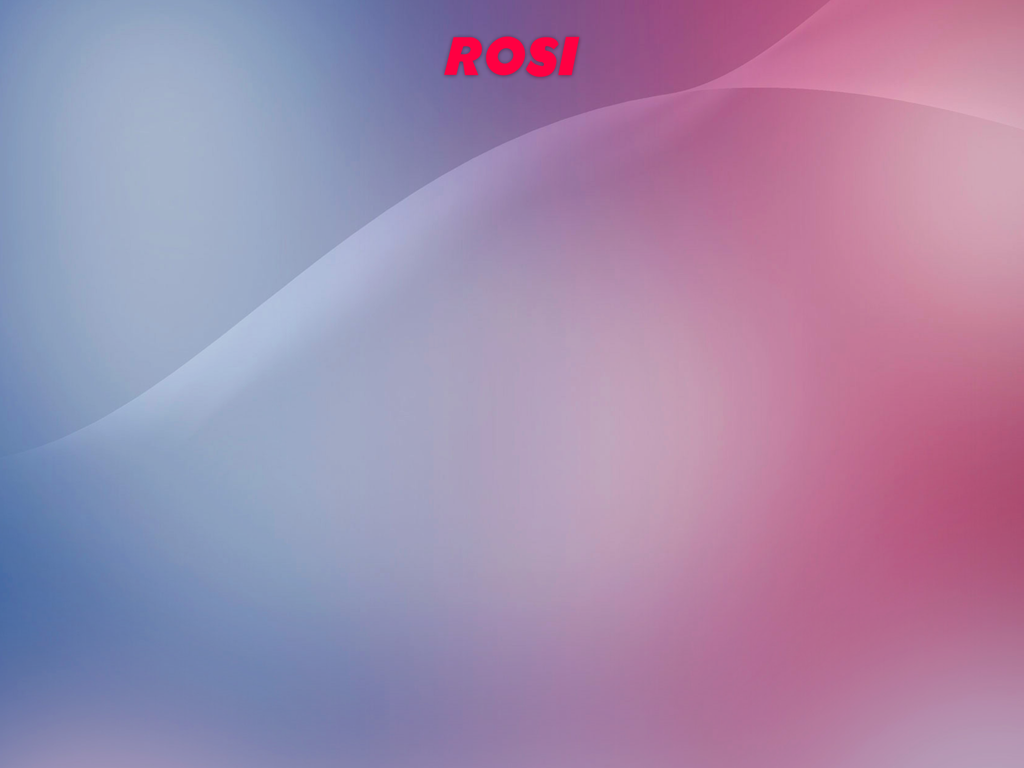
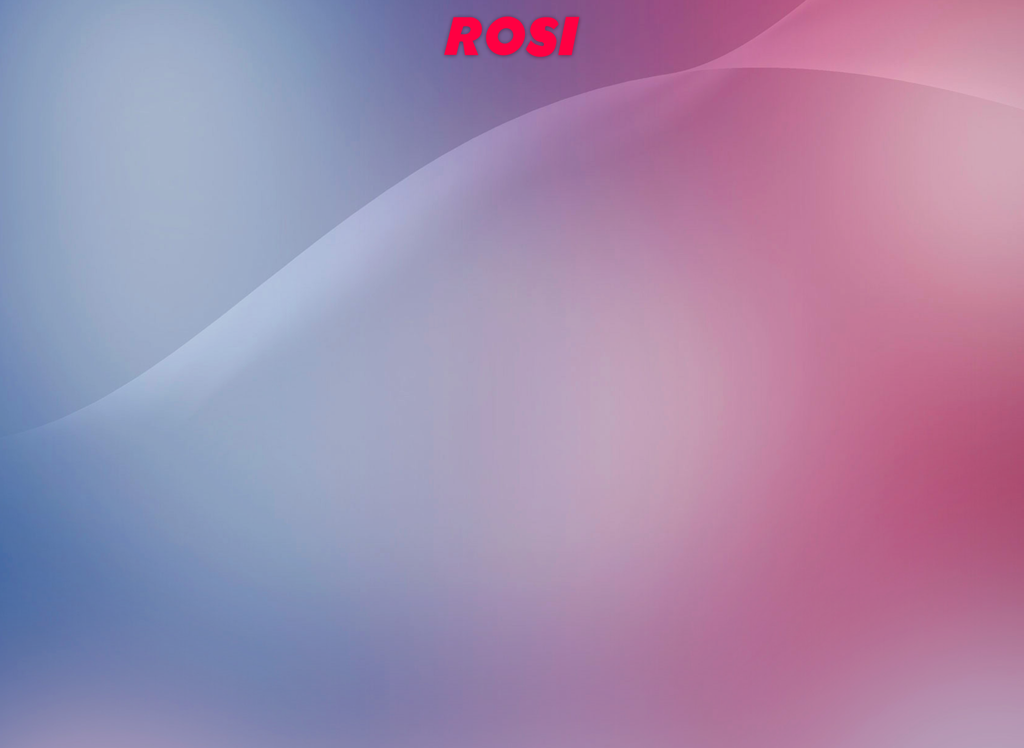
根据Ui改动

diff --git a/BakerShelf/IssueViewController.m b/BakerShelf/IssueViewController.m
@@ -125,6 +125,7 @@
     // SETUP USED FONTS
     self.titleFont = [UIFont fontWithName:ISSUES_TITLE_FONT size:ISSUES_TITLE_FONT_SIZE];
     self.infoFont = [UIFont fontWithName:ISSUES_INFO_FONT size:ISSUES_INFO_FONT_SIZE];
+    self.infoFont = [UIFont systemFontOfSize:16];
 
     // SETUP TITLE LABEL
     self.titleLabel = [[[UILabel alloc] init] autorelease];
@@ -202,7 +203,7 @@
 //    CGSize cellSize = [IssueViewController getIssueCellSize];
 //    titleLabel.frame = CGRectMake(0, self.issueCover.frame.size.height +10, 300, textLineheight * titleLines);
     
-    titleLabel.frame = CGRectMake(0, self.issueCover.frame.size.height +20, 300, 40);
+    titleLabel.frame = CGRectMake(0, self.issueCover.frame.size.height +10, 300, 40);
     titleLabel.numberOfLines = titleLines;
     titleLabel.text = self.issue.title;
     heightOffset = heightOffset + titleLabel.frame.size.height + 5;
@@ -264,7 +265,7 @@
         
         self.statusview.hidden = YES;
         self.tapReadButton.hidden = NO;
-        [self.tapReadButton setBackgroundImage:[UIImage imageNamed:@"shelf-button-Subscription.png"] forState:UIControlStateNormal];
+        [self.tapReadButton setBackgroundImage:[UIImage imageNamed:@"shelf-button-subscription.png"] forState:UIControlStateNormal];
     }
     else if ([status isEqualToString:@"connecting"])
     {
@@ -281,7 +282,7 @@
      
         self.statusview.hidden = YES;
         self.tapReadButton.hidden = NO;
-        [self.tapReadButton setBackgroundImage:[UIImage imageNamed:@"shelf-button-Subscription.png"] forState:UIControlStateNormal];
+            [self.tapReadButton setBackgroundImage:[UIImage imageNamed:@"shelf-button-subscription.png"] forState:UIControlStateNormal];
     }
     else if ([status isEqualToString:@"downloading"])
     {
@@ -362,7 +363,7 @@
         
         self.statusview.hidden = YES;
         self.tapReadButton.hidden = NO;
-        [self.tapReadButton setBackgroundImage:[UIImage imageNamed:@"shelf-button-Subscription.png"] forState:UIControlStateNormal];
+           [self.tapReadButton setBackgroundImage:[UIImage imageNamed:@"shelf-button-subscription.png"] forState:UIControlStateNormal];
     }
     else if ([status isEqualToString:@"purchasing"])
     {
@@ -379,7 +380,7 @@
         
         self.statusview.hidden = YES;
         self.tapReadButton.hidden = NO;
-        [self.tapReadButton setBackgroundImage:[UIImage imageNamed:@"shelf-button-Subscription.png"] forState:UIControlStateNormal];
+          [self.tapReadButton setBackgroundImage:[UIImage imageNamed:@"shelf-button-subscription.png"] forState:UIControlStateNormal];
     }
     else if ([status isEqualToString:@"purchased"])
     {
@@ -413,10 +414,12 @@
 
         self.statusview.hidden = YES;
         self.tapReadButton.hidden = NO;
-        [self.tapReadButton setBackgroundImage:[UIImage imageNamed:@"shelf-button-Subscription.png"] forState:UIControlStateNormal];
+       [self.tapReadButton setBackgroundImage:[UIImage imageNamed:@"shelf-button-subscription.png"] forState:UIControlStateNormal];
     }
 
     [self refreshContentWithCache:YES];
+
+    
 
     self.currentStatus = status;
 }
@@ -579,6 +582,12 @@
     }
 //    [self.progressBar setProgress:(bytesWritten / bytesExpected) animated:YES];
     [self.statusview setPro:(bytesWritten / bytesExpected)];
+    if (bytesWritten / bytesExpected == 1.0 )
+    {
+        self.statusview.hidden= YES;
+        self.tapReadButton.hidden = NO;
+        [self.tapReadButton setBackgroundImage:[UIImage imageNamed:@"shelf-button-read.png"] forState:UIControlStateNormal];
+    }
 }
 - (void)handleDownloadFinished:(NSNotification *)notification {
     self.issue.transientStatus = BakerIssueTransientStatusNone;

diff --git a/BakerShelf/ShelfViewController.m b/BakerShelf/ShelfViewController.m
@@ -358,12 +358,12 @@
     
     //    int bannerHeight = [ShelfViewController getBannerHeight];
     self.carousel.frame = CGRectMake(0, 117, width, 600);
-    self.refreshButton.frame = CGRectMake(44, 10, 60, 60);
+    self.refreshButton.frame = CGRectMake(24, 10, 60, 60);
     self.shareButton.frame = CGRectMake(size.height - 128, 10, 60, 60);
-    self.sysTemButton.frame = CGRectMake(size.height-74, 10, 60, 60);
+    self.sysTemButton.frame = CGRectMake(size.height-64, 10, 60, 60);
     
     
-    self.background.frame = CGRectMake(0, 0, width, height);
+    self.background.frame = CGRectMake(0, 0, width, 748);
     self.background.image = [UIImage imageNamed:image];
     
     //    self.gridView.frame = CGRectMake(0, bannerHeight, width, height - bannerHeight);

diff --git a/BakerShelf/UIConstants.h b/BakerShelf/UIConstants.h
@@ -38,7 +38,7 @@
 
     // Title for issues in the shelf
     #define ISSUES_TITLE_FONT @"Arial Rounded MT Bold"
-    #define ISSUES_TITLE_FONT_SIZE 25
+    #define ISSUES_TITLE_FONT_SIZE 23
     #define ISSUES_TITLE_COLOR @"#000000"
 
     // Info text for issues in the shelf
